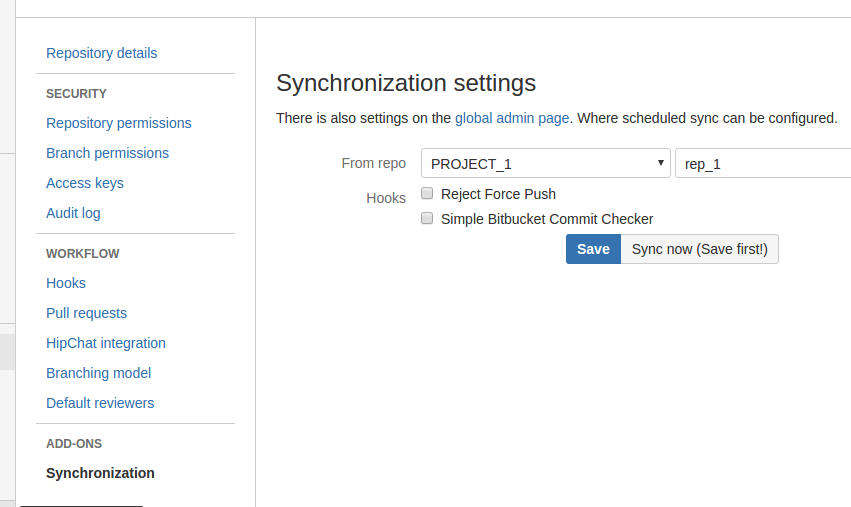
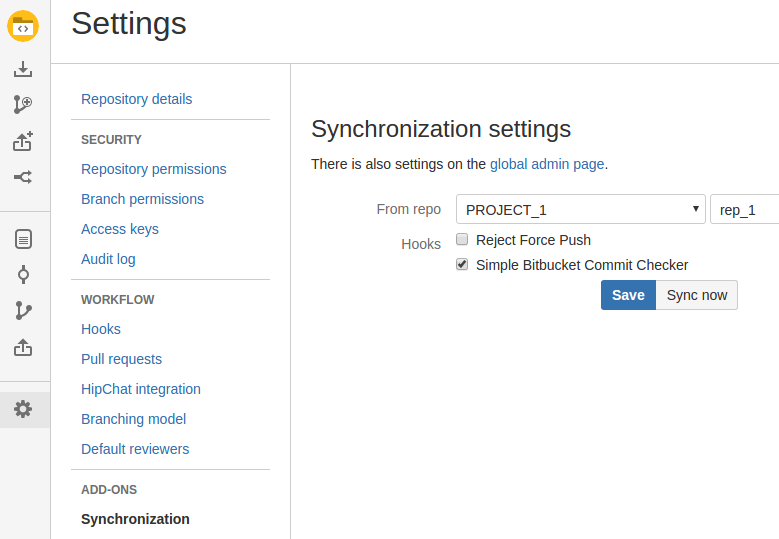
doc

diff --git a/README.md b/README.md
@@ -9,10 +9,6 @@ Settings can be made on repository level.
 
 ![Repo Settings](https://raw.githubusercontent.com/tomasbjerre/settings-synchronizer-for-bitbucket-plugin/master/sandbox/repoadmin.png)
 
-Settings can also be made on a global level.
-
-![Globl Repo Settings](https://raw.githubusercontent.com/tomasbjerre/settings-synchronizer-for-bitbucket-plugin/master/sandbox/globalrepoadmin.png)
-
 ## Developer instructions
 Prerequisites:
 

diff --git a/CHANGELOG.md b/CHANGELOG.md
@@ -5,6 +5,11 @@ Changelog of Settings Synchronizer for Bitbucket.
 ## Unreleased
 ### No issue
 
+**Nicer feedback, autosave on sync at repo level**
+
+
+[7503507ba6448a0](https://github.com/tomasbjerre/settings-synchronizer-for-bitbucket-plugin/commit/7503507ba6448a0) Tomas Bjerre *2016-10-15 05:58:20*
+
 **doc**
 
 
